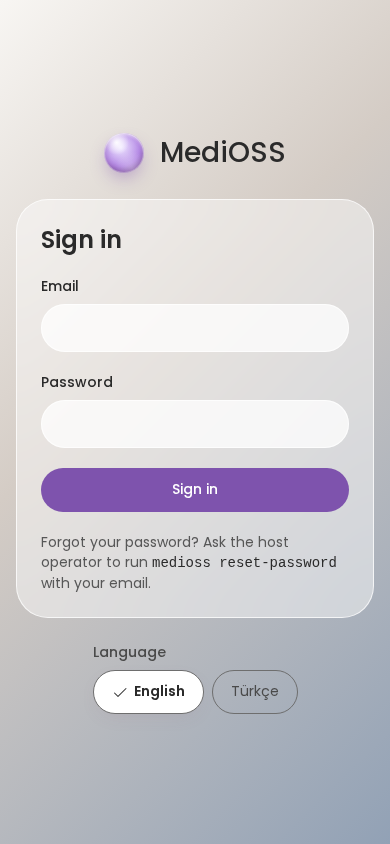
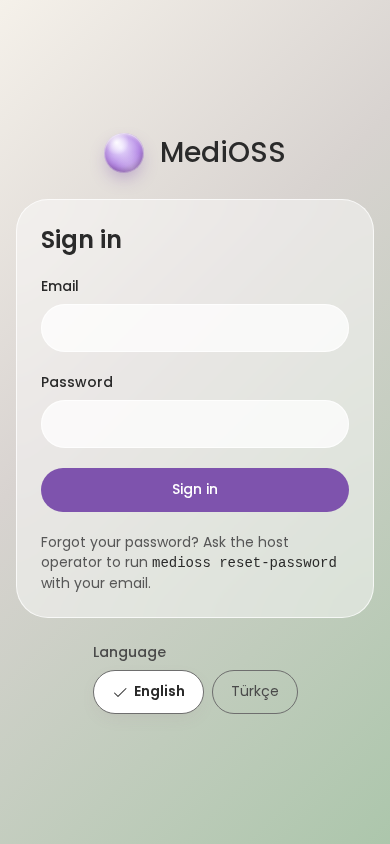
design: adopt Hybrid palette (Soft Nature + Cool Serene orb)
Update to Palette 3 Hybrid from sunumda gösterilen renklerin:
- Canvas gradient: Cream (#f5f1ea) → Soft Gray → Soft Nature Green → Cool Blue
- Banner PNG rendered with new palette
- All 23 screenshots (11 screens × 2 viewports) refreshed
- More doygun and warmer than previous Cool Serene version

Maintains soft glass + nötr identity with improved visual warmth.

Changed region(s): [[0.2154, 0.6161, 1.0, 1.0]]

diff --git a/src/apps/web-ui/src/styles/global.css b/src/apps/web-ui/src/styles/global.css
@@ -79,13 +79,13 @@
   --elevation-3: 0 30px 60px -20px rgb(150 100 120 / 0.3);
 
   /* Gradients (§3.2). Use with bg-(image:--gradient-orb) and friends. */
-  /* Cool Serene palette: minimal, modern, technology + wellness */
+  /* Hybrid: Soft Nature colors + Cool Serene orb compat */
   --gradient-canvas: linear-gradient(
     135deg,
-    #f8f6f3,
-    #d4ccc5 25%,
-    #8b9db4 65%,
-    #9abfb5 100%
+    #f5f1ea 0%,
+    #d8d3d0 25%,
+    #a8c5a8 65%,
+    #c5d9e8 100%
   );
   /* Brand orb (§2.4): canvas hues condensed into a glass sphere. The deep purple rim
      stays darker than every canvas stop, so the mark does not dissolve into
@@ -154,7 +154,7 @@
 
   /* shadcn variables mapped onto the tokens (§10) */
   --radius: 2rem; /* panel radius */
-  --background: #f8f6f3; /* canvas base: Cool Serene cream */
+  --background: #f5f1ea; /* canvas base: Hybrid palette cream */
   --foreground: var(--text-strong);
   --card: var(--surface-panel);
   --card-foreground: var(--text-strong);

diff --git a/docs/medioss-cover.html b/docs/medioss-cover.html
@@ -14,12 +14,12 @@
         body {
             width: 1400px;
             height: 350px;
-            /* Canvas gradient: Cool Serene Palette */
+            /* Canvas gradient: Hybrid Soft Nature + Cool Serene */
             background: linear-gradient(135deg,
-                #F8F6F3 0%,      /* top-left: cream */
-                #D4CCC5 25%,     /* warm gray transition */
-                #8B9DB4 65%,     /* slate blue */
-                #9ABFB5 100%     /* soft teal */
+                #F5F1EA 0%,      /* top-left: cream */
+                #D8D3D0 25%,     /* soft gray */
+                #A8C5A8 65%,     /* soft nature green */
+                #C5D9E8 100%     /* cool blue */
             );
             display: flex;
             align-items: center;
